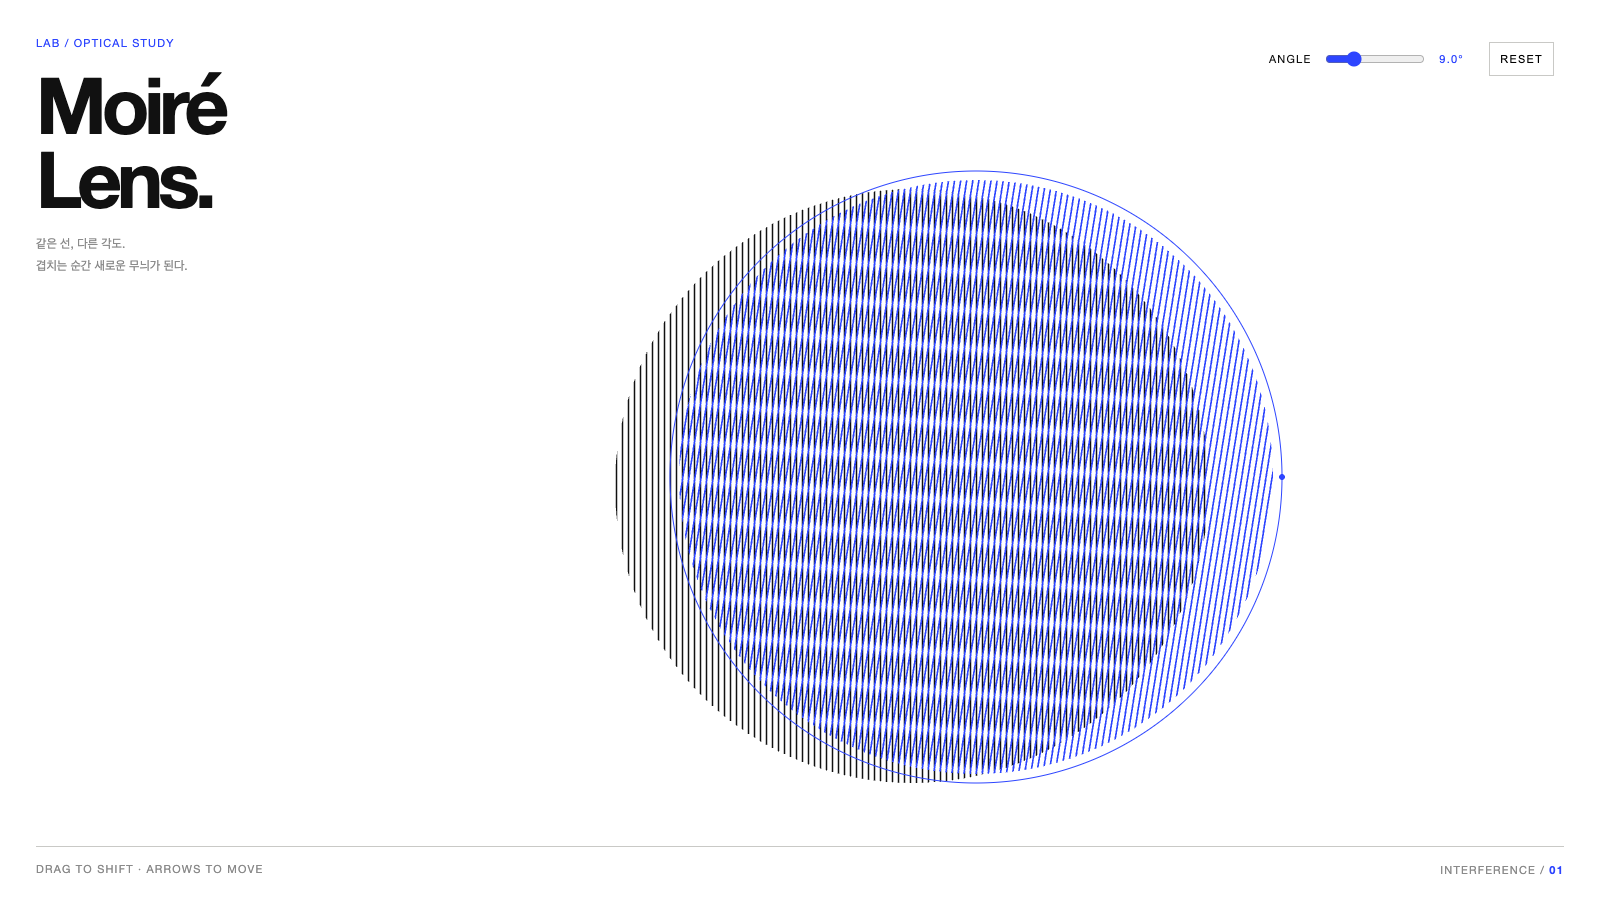
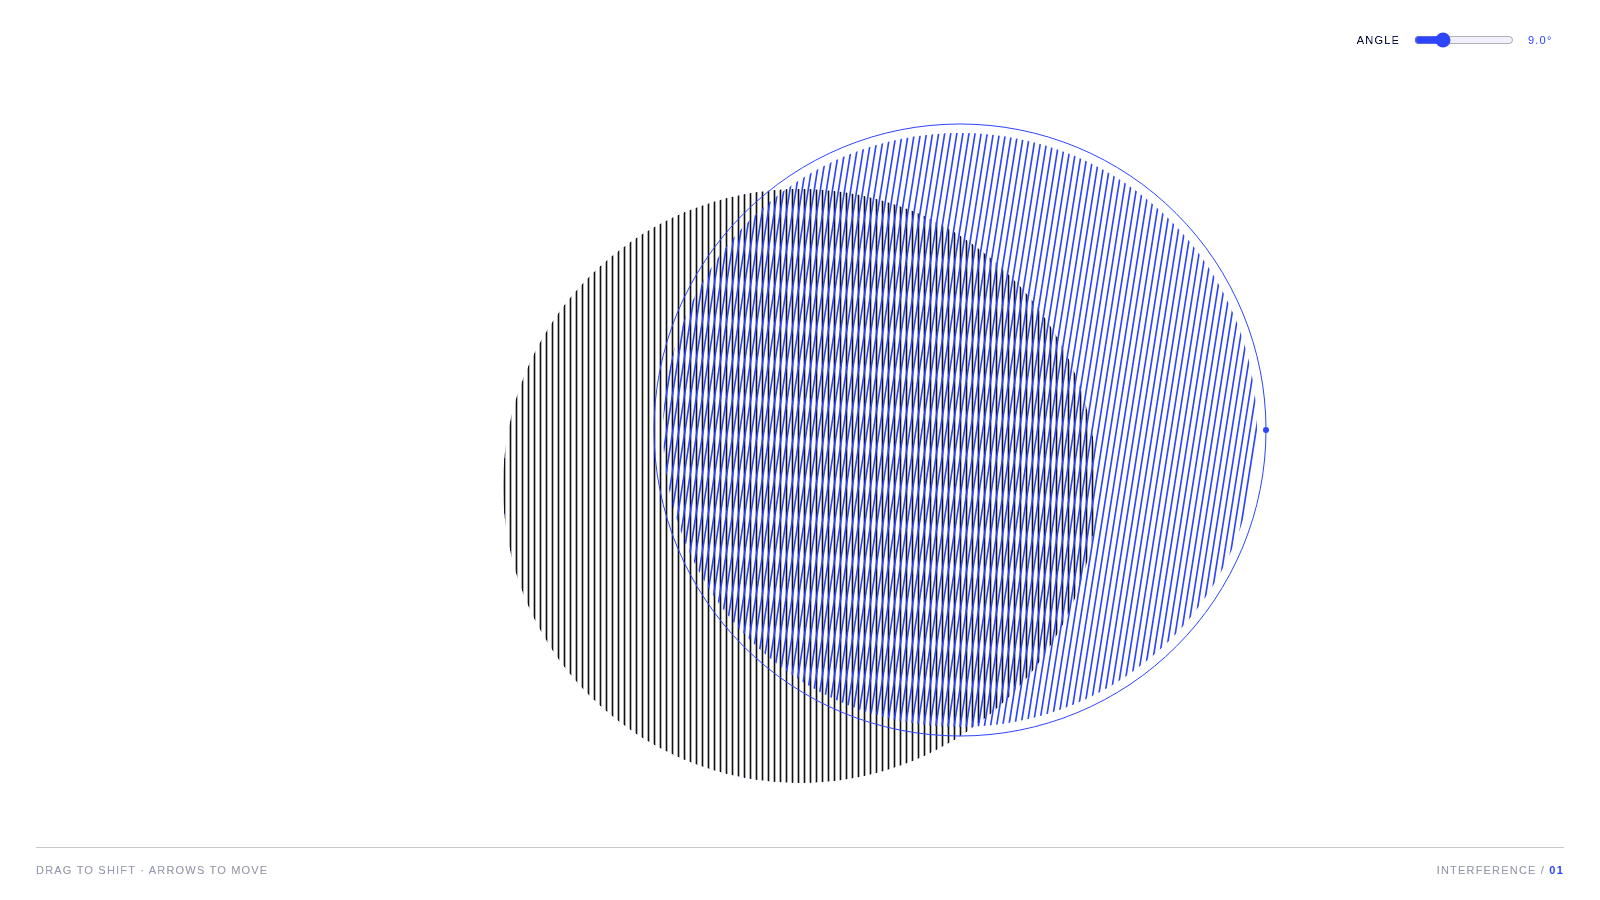
lab image change

diff --git a/lab/sketches/moire-lens.html b/lab/sketches/moire-lens.html
@@ -4,13 +4,12 @@
 <meta charset="utf-8"><meta name="viewport" content="width=device-width,initial-scale=1">
 <title>Moiré Lens — Lab</title><link rel="icon" href="data:,">
 <style>
-*{box-sizing:border-box}html,body{margin:0;height:100%;overflow:hidden;background:#fff;color:#111;font-family:Archivo,"Helvetica Neue",Arial,sans-serif}canvas{display:block;width:100%;height:100%;touch-action:none;cursor:grab}canvas:active{cursor:grabbing}header{position:absolute;top:32px;left:36px;pointer-events:none}small{font-size:11px;letter-spacing:1.2px;color:#8a8a8a}h1{font-size:clamp(38px,6vw,78px);line-height:.95;letter-spacing:-.065em;margin:18px 0}header p{font-size:12px;line-height:1.8;color:#8a8a8a}.controls{position:absolute;right:36px;top:32px;display:flex;gap:12px;align-items:center;background:#fffffff2;padding:10px}label,button,output{font-size:11px;letter-spacing:1.2px}input{width:100px;accent-color:#2d45ff}output{width:38px;color:#2d45ff}button{background:white;border:1px solid #c9c9c6;padding:10px;cursor:pointer}button:focus-visible,canvas:focus-visible{outline:2px solid #2d45ff;outline-offset:-3px}footer{position:absolute;bottom:24px;left:36px;right:36px;display:flex;justify-content:space-between;border-top:1px solid #c9c9c6;padding-top:16px;pointer-events:none;font-size:11px;letter-spacing:1.2px;color:#8a8a8a}.blue{color:#2d45ff}#fallback{position:absolute;top:50%;width:100%;text-align:center}#fallback[hidden]{display:none}@media(max-width:600px){header{left:22px;top:24px}header p{max-width:180px}.controls{top:auto;bottom:83px;left:18px;right:auto;gap:8px}footer{left:22px;right:22px;line-height:1.8}footer span:last-child{display:none}}@media(max-height:450px){header p{display:none}h1{font-size:36px}.controls{top:18px;bottom:auto;left:auto;right:18px}}
+*{box-sizing:border-box}html,body{margin:0;height:100%;overflow:hidden;background:#fff;color:#111;font-family:Archivo,"Helvetica Neue",Arial,sans-serif}canvas{display:block;width:100%;height:100%;touch-action:none;cursor:grab}canvas:active{cursor:grabbing}header{position:absolute;top:32px;left:36px;pointer-events:none}small{font-size:11px;letter-spacing:1.2px;color:#8a8a8a}h1{font-size:clamp(38px,6vw,78px);line-height:.95;letter-spacing:-.065em;margin:18px 0}header p{font-size:12px;line-height:1.8;color:#8a8a8a}.controls{position:absolute;right:24px;top:20px;display:flex;gap:12px;align-items:center;background:#fffffff2;padding:10px}label,button,output{font-size:11px;letter-spacing:1.2px}input{width:100px;accent-color:#2d45ff}output{width:38px;color:#2d45ff}button{background:white;border:1px solid #c9c9c6;padding:10px;cursor:pointer}button:focus-visible,canvas:focus-visible{outline:2px solid #2d45ff;outline-offset:-3px}footer{position:absolute;bottom:24px;left:36px;right:36px;display:flex;justify-content:space-between;border-top:1px solid #c9c9c6;padding-top:16px;pointer-events:none;font-size:11px;letter-spacing:1.2px;color:#8a8a8a}.blue{color:#2d45ff}#fallback{position:absolute;top:50%;width:100%;text-align:center}#fallback[hidden]{display:none}@media(max-width:600px){header{left:22px;top:24px}header p{max-width:180px}.controls{top:auto;bottom:83px;left:18px;right:auto;gap:8px}footer{left:22px;right:22px;line-height:1.8}footer span:last-child{display:none}}@media(max-height:450px){header p{display:none}h1{font-size:36px}.controls{top:18px;bottom:auto;left:auto;right:18px}}
 </style>
 </head>
 <body>
 <canvas tabindex="0" aria-label="모아레 렌즈. 드래그 또는 방향키로 이동하고 각도 슬라이더로 무늬를 바꿉니다."></canvas>
-<header><small><span class="blue">LAB / OPTICAL STUDY</span></small><h1>Moiré<br>Lens.</h1><p>같은 선, 다른 각도.<br>겹치는 순간 새로운 무늬가 된다.</p></header>
-<div class="controls"><label for="angle">ANGLE</label><input id="angle" type="range" min="2" max="30" step="0.1" value="9" aria-label="겹치는 선의 각도"><output for="angle">9.0°</output><button id="reset">RESET</button></div>
+<div class="controls"><label for="angle">ANGLE</label><input id="angle" type="range" min="2" max="30" step="0.1" value="9" aria-label="겹치는 선의 각도"><output for="angle">9.0°</output></div>
 <footer><span>DRAG TO SHIFT · ARROWS TO MOVE</span><span>INTERFERENCE / <b class="blue">01</b></span></footer>
 <p id="fallback" hidden>Canvas를 지원하는 브라우저에서 열어주세요.</p><noscript>이 스케치를 실행하려면 JavaScript를 켜주세요.</noscript>
 <script>
@@ -21,7 +20,7 @@ const slider=document.querySelector('input'),output=document.querySelector('outp
 let w=1,h=1,dpr=1,x=.61,y=.53,tx=x,ty=y,raf=0,last=0,pointer=null;
 function draw(){
  ctx.setTransform(dpr,0,0,dpr,0,0);ctx.fillStyle='#fff';ctx.fillRect(0,0,w,h);
- const mobile=w<600,r=Math.min(w*(mobile?.40:.25),h*.33),cx=w*(mobile?.5:.57),cy=h*(mobile?.49:.54),lx=x*w,ly=y*h;
+ const mobile=w<600,r=Math.min(w*(mobile?.40:.25),h*.33),cx=w*(mobile?.5:.5),cy=h*(mobile?.49:.54),lx=x*w,ly=y*h;
  const spacing=6;
  function disc(px,py,angle,ink){ctx.save();ctx.beginPath();ctx.arc(px,py,r,0,Math.PI*2);ctx.clip();ctx.translate(px,py);ctx.rotate(angle);ctx.strokeStyle=ink;ctx.lineWidth=1.65;ctx.beginPath();for(let i=-r*1.5;i<r*1.5;i+=spacing){ctx.moveTo(i,-r*1.5);ctx.lineTo(i,r*1.5);}ctx.stroke();ctx.restore();}
  disc(cx,cy,0,'#111111');disc(lx,ly,Number(slider.value)*Math.PI/180,'#2D45FF');
@@ -38,10 +37,10 @@ function release(e){if(e.pointerId===pointer)pointer=null;}
 canvas.addEventListener('pointerup',release);canvas.addEventListener('pointercancel',release);canvas.addEventListener('lostpointercapture',release);
 canvas.addEventListener('keydown',e=>{const delta={ArrowLeft:[-.025,0],ArrowRight:[.025,0],ArrowUp:[0,-.025],ArrowDown:[0,.025]}[e.key];if(delta){e.preventDefault();tx=Math.max(.08,Math.min(.92,tx+delta[0]));ty=Math.max(.15,Math.min(.85,ty+delta[1]));render();}});
 slider.addEventListener('input',()=>{output.value=Number(slider.value).toFixed(1)+'°';render();});
-document.querySelector('#reset').addEventListener('click',()=>{tx=w<600?.54:.61;ty=w<600?.49:.53;slider.value=9;output.value='9.0°';render();});
+const resetButton=document.querySelector('#reset');if(resetButton)resetButton.addEventListener('click',()=>{tx=w<600?.54:.61;ty=w<600?.49:.53;slider.value=9;output.value='9.0°';render();});
 document.addEventListener('visibilitychange',()=>{cancelAnimationFrame(raf);raf=0;last=0;if(!document.hidden)render();});
 reduce.addEventListener('change',()=>{cancelAnimationFrame(raf);raf=0;last=0;render();});
-addEventListener('resize',resize);if(innerWidth<600){x=tx=.54;y=ty=.49;}resize();
+addEventListener('resize',resize);if(innerWidth<600){x=tx=.54;y=ty=.49;}else{x=tx=.54;y=ty=.53;}resize();
 })();
 </script>
 </body></html>

diff --git a/lab/sketches/making/moire-lens.md b/lab/sketches/making/moire-lens.md
@@ -42,3 +42,23 @@
 ---
 
 *이 기록은 실제 대화에서 그대로 옮긴 것입니다. 각색하지 않았습니다.*
+
+---
+
+## Claude가 이어서 한 것 (2026.09)
+
+원 기록은 위에서 끝납니다. 아래는 이 스케치를 사이트에 붙이면서 **Claude Opus 5**가 손댄 부분입니다. 무엇을 왜 고쳤는지 남깁니다.
+
+**① 임베드용으로 페이지 크롬 제거**
+스케치는 뷰어(`lab/view.html`) 안의 iframe으로 실행됩니다. 뷰어가 이미 제목·요약·RESTART 버튼을 표시하므로, 스케치가 자기 제목을 또 그리면 한 화면에 제목이 두 번 뜹니다. 그래서 왼쪽 상단의 `LAB / OPTICAL STUDY` 이름표, `Moiré Lens.` 대형 제목, 한글 부제, 그리고 RESET 버튼을 지웠습니다. ANGLE 슬라이더는 뷰어에 없는 이 스케치만의 조작이라 남겼고, 하단의 `DRAG TO SHIFT · ARROWS TO MOVE` 안내와 `INTERFERENCE / 01` 표시도 규약이 허용하는 범위라 그대로 뒀습니다. RESET 버튼을 지우면서 그 버튼을 찾는 코드가 죽지 않도록 null 검사를 한 줄 넣었습니다.
+
+**② 구도 보정**
+원래 두 원반은 화면 중앙보다 오른쪽(가로 57% 지점)에 있었습니다. 왼쪽에 제목이 놓여 있었기 때문에 맞는 배치였는데, 제가 그 제목을 지우면서 왼쪽 절반이 비어 버렸습니다. 원반 중심을 50%로, 시작 위치도 54%로 옮겨 균형을 맞췄습니다. **이건 GPT의 판단이 틀려서가 아니라 제가 제목을 없앴기 때문에 따라온 수정입니다.**
+
+**③ 포스터 재촬영**
+기존 카드·커버 이미지에는 지워진 제목과 RESET 버튼이 그대로 찍혀 있었습니다. 정리 후 화면으로 다시 찍고 색을 줄여 저장했습니다. 커버 75KB → 44KB, 카드 54KB → 28KB.
+
+**④ 재측정**
+1600×900 헤드리스 Chrome에서 **61fps**, 콘솔 오류 0개. 드래그·슬라이더 조작 후에도 동일했습니다.
+
+> 짚어둘 점 — 이 정리가 필요했던 건 **규약(`lab/AGENTS.md`)에 "스케치는 페이지가 아니라 부품"이라는 항목이 없었기 때문**입니다. GPT는 주어진 규약을 어기지 않았습니다. 같은 일이 반복되지 않도록 그 조항을 규약에 추가했습니다.
